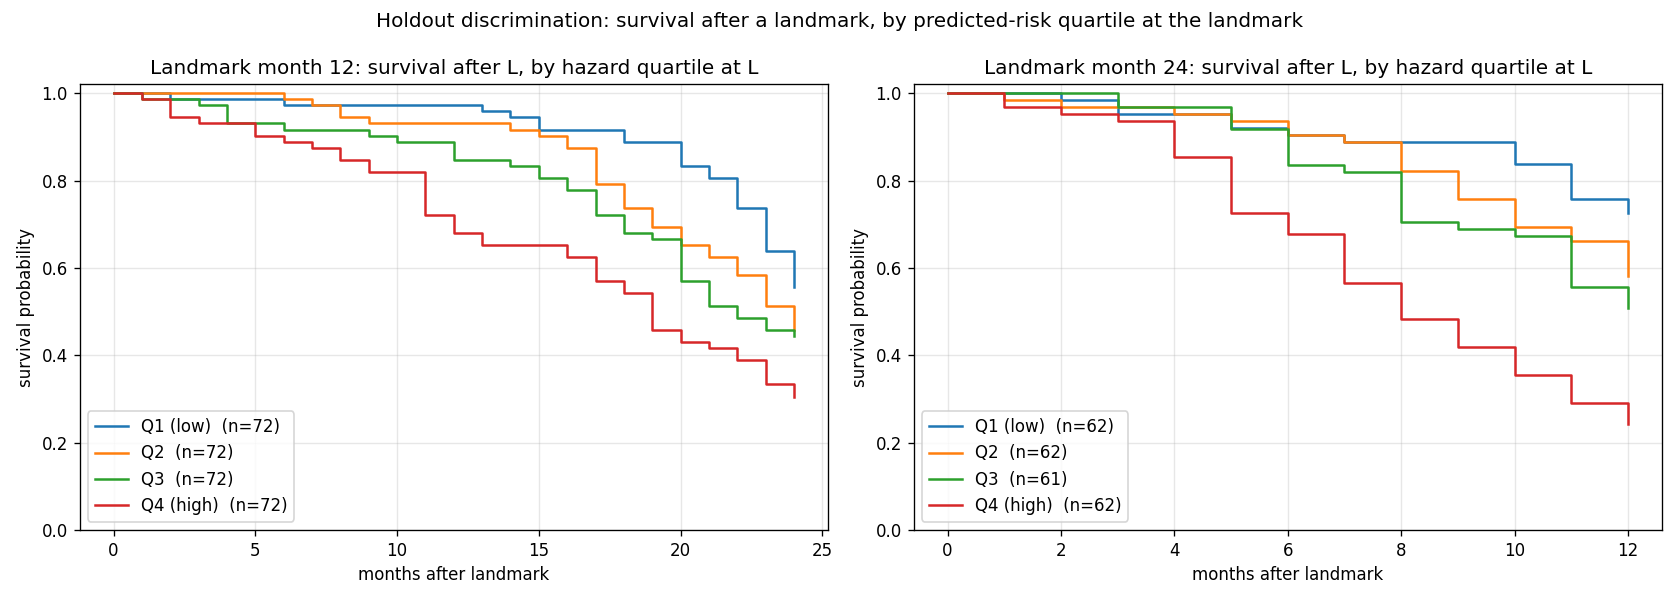
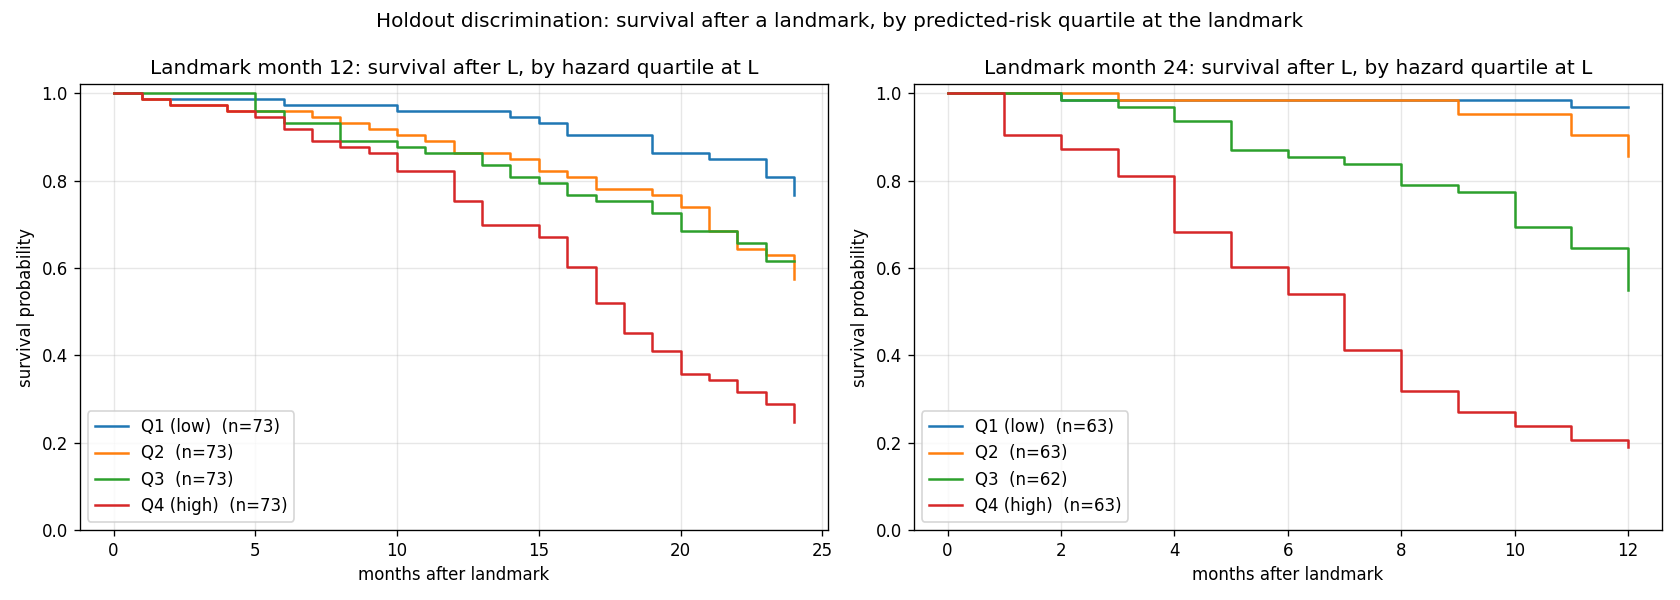
refactor(serving): split lifelines-free serving artefact from training bundle
Persist two artefacts from one fit (train/serve artefact separation):
- cox_model.pkl   full lifelines model object (retraining/inspection)
- cox_serving.pkl plain dicts only (coefficients + norm_mean + train_log_ph),
                  unpickles with zero lifelines dependency

Scoring a tenant is a centered linear predictor, so the serving path needs only
arithmetic. norm_mean is stored because lifelines' predict_log_partial_hazard
returns the CENTERED dot product (x - xbar) . beta; a naive sum(coef*feat) drifts
every score by the constant xbar . beta (verified by check_serving_parity.py).

Also: refresh the fit on current data_train (Jun-5 reseed) so model and live data
are the same generation again (the deployed model was a frozen Jun-4 fit). Demo
numbers shift accordingly (e.g. Margot percentile 0.101 -> 0.324); gate still GO.
Fix stale 8-covariate/4-branch docstring to the live 5-covariate/3-branch ambient
model, and drop dead credit_x_corpfranch (computed, never a covariate).

diff --git a/scripts/fit_cox_model.py b/scripts/fit_cox_model.py
@@ -15,29 +15,34 @@ each month. The counting-process form uses each tenant-month's *backward-
 looking* signal and the event only ever fires on the final interval, so there
 is no look-ahead. See the planning repo's decision log (Day 4).
 
-The covariates span the generator's four causal branches; each is computed as
-a STRICTLY trailing window at every month (no future information):
+The covariates span THREE of the generator's causal branches (revenue,
+operational, leading); each is computed as a STRICTLY trailing window at every
+month (no future information):
 
   Revenue      rts_12mo_mean         trailing-12mo mean rent-to-sales   (+)
                sales_trend_12mo      12-month sales growth              (-)
   Operational  late_pay_count_12mo   late-payment flags, trailing 12mo  (+)
                trading_shortfall_3mo trailing-3mo mean shortfall        (+)
-  Leading      enquiry_recent_6mo    any relief/exit enquiry, last 6mo  (+)
-               stock_depth_3mo       trailing-3mo mean stock depth      (-)
-  External     credit_trend_3mo_mean trailing-3mo mean credit trend     (-)
-               credit_x_corpfranch   credit trend x corp/franchise      (-)
+  Leading      stock_depth_3mo       trailing-3mo mean stock depth      (-)
 
-The model is STRATIFIED by `operator_type` (each type its own baseline hazard)
-and carries the one `operator_type x credit_trend` interaction the spec names
-(encoded as credit_trend x is-corporate-or-franchise, since the generator makes
-credit informative only for those operator types).
+The relief/exit-enquiry and credit signals are deliberately NOT covariates:
+they are discrete, high-impact event signals handled in the agent's ALERT layer
+(see the two-layer note at FEATURES below and decisions.md 2026-06-03). Keeping
+them out also removes a near-label signal, so the model's discrimination is honest.
+
+The model is STRATIFIED by `operator_type` (each type its own baseline hazard).
 
 Usage:
     python scripts/fit_cox_model.py [--seed 42] [--data data] [--holdout 0.2]
 
 Outputs:
-    data/cox_model.pkl              pickled fitted model (gitignored; for the
-                                    cox_ph_predict Cloud Function, Day 5)
+    data/cox_model.pkl              full bundle: fitted model + train log-ph +
+                                    serving coefficients (gitignored; for
+                                    retraining / inspection)
+    data/cox_serving.pkl            lifelines-free SERVING artefact - plain dicts
+                                    (coefficients + centering + train log-ph) for
+                                    the cox_ph_predict Cloud Function. See the
+                                    train/serve separation note at the bundle save.
     docs/cox_validation_km.png      landmark KM-by-risk-quartile plots (evidence)
     docs/cox_validation_report.md   the go/no-go gate report (evidence)
 """
@@ -120,15 +125,13 @@ def build_counting_process(tenants, observations):
         lambda s: s.astype(int).rolling(6, min_periods=1).max())
     odf["stock_depth_3mo"] = grp["stock_depth_index"].transform(
         lambda s: s.rolling(3, min_periods=1).mean())
+    # Ambient credit-trend signal, kept as an alert-layer reference column (see
+    # the note above build_counting_process). NOT a model covariate.
     odf["credit_trend_3mo_mean"] = grp["credit_trend_3mo"].transform(
         lambda s: s.rolling(3, min_periods=1).mean())
     # 12-month sales growth; 0 where <12mo of history (trend not yet knowable).
     odf["sales_trend_12mo"] = grp["sales_total"].transform(
         lambda s: (s / s.shift(12) - 1.0)).fillna(0.0)
-
-    # Interaction: credit only carries signal for corporate/franchise tenants.
-    is_corp_franch = odf["operator_type"].isin(["corporate", "franchise"]).astype(int)
-    odf["credit_x_corpfranch"] = odf["credit_trend_3mo_mean"] * is_corp_franch
 
     # Event fires only on an exiter's final observed interval.
     last_idx = odf.groupby("tenant_id")["month_idx"].transform("max")
@@ -385,15 +388,51 @@ def main(seed=42, data_dir="data", holdout_frac=0.2, penalizer=0.1):
                  gate_landmark=gate_landmark, km_separates=km_separates,
                  overall=overall, movers=movers)
 
-    # Save a model bundle rather than the bare model: the Cloud Function needs
-    # the training population's log partial hazard distribution to compute a
-    # percentile-rank score alongside the sigmoid score (belt-and-braces).
-    # We use each tenant's LAST training observation (current state at exit/censor).
+    # --- Train/serve artefact separation (see decisions.md 2026-06-06) ---
+    # We persist TWO artefacts from one fit:
+    #
+    #   cox_model.pkl    the TRAINING artefact - the full lifelines model object,
+    #                    for retraining, inspection, and validation diagnostics.
+    #                    Unpickling it REQUIRES lifelines installed.
+    #
+    #   cox_serving.pkl  the SERVING artefact - plain Python types only, no
+    #                    lifelines classes, so it unpickles with zero lifelines
+    #                    dependency. Scoring a tenant is just a centered linear
+    #                    predictor, so all the Cloud Function needs is:
+    #                      coefficients  beta per covariate
+    #                      norm_mean     the training mean per covariate; lifelines'
+    #                                    predict_log_partial_hazard returns the
+    #                                    CENTERED dot product (x - xbar) . beta, so
+    #                                    the serving path must subtract xbar too or
+    #                                    every score drifts by a constant.
+    #                      train_log_ph  the training population's log-partial-hazard
+    #                                    distribution, for the percentile-rank score.
+    #
+    # The percentile (belt-and-braces alongside the sigmoid) ranks a tenant against
+    # each TRAINING tenant's LAST observation (current state at exit/censor).
     last_train = train_df.loc[train_df.groupby("tenant_id")["stop"].idxmax()]
     train_log_ph = model.predict_log_partial_hazard(last_train[FEATURE_NAMES]).values
-    bundle = {"model": model, "train_log_ph": train_log_ph}
+
+    coefficients = {f: float(model.params_[f]) for f in FEATURE_NAMES}
+    norm_mean = {f: float(model._norm_mean[f]) for f in FEATURE_NAMES}
+
+    bundle = {
+        "model": model,
+        "train_log_ph": train_log_ph,
+        "coefficients": coefficients,   # also kept here so the full bundle self-describes
+        "norm_mean": norm_mean,
+    }
     with open(data / "cox_model.pkl", "wb") as fh:
         pickle.dump(bundle, fh)
+
+    serving = {
+        "coefficients": coefficients,
+        "norm_mean": norm_mean,
+        "train_log_ph": [float(v) for v in train_log_ph],
+        "feature_names": list(FEATURE_NAMES),
+    }
+    with open(data / "cox_serving.pkl", "wb") as fh:
+        pickle.dump(serving, fh)
 
     # Console gate summary
     print("\n" + "=" * 72)
@@ -413,7 +452,7 @@ def main(seed=42, data_dir="data", holdout_frac=0.2, penalizer=0.1):
         print(f"    @{L}mo c-index = {landmark_c[L]:.3f}")
     print("\n" + ("OVERALL: GO" if overall else "OVERALL: NO-GO (review)"))
     print(f"\nArtifacts: docs/cox_validation_km.png, docs/cox_validation_report.md, "
-          f"{data}/cox_model.pkl")
+          f"{data}/cox_model.pkl (training), {data}/cox_serving.pkl (serving)")
     print("=" * 72)
 
     return overall

diff --git a/docs/cox_validation_report.md b/docs/cox_validation_report.md
@@ -4,8 +4,8 @@
 
 ## Dataset
 
-- Tenants: **1508**  *  exit events: **858**
-- Events per covariate (EPV): **171.6** (858 events / 5 covariates)
+- Tenants: **1508**  *  exit events: **680**
+- Events per covariate (EPV): **136.0** (680 events / 5 covariates)
 
 ## Gate summary (hard criteria)
 
@@ -14,7 +14,7 @@
 | Branch contributes: revenue | yes | PASS |
 | Branch contributes: operational | yes | PASS |
 | Branch contributes: leading | yes | PASS |
-| KM quartiles separate @12mo (log-rank p<0.01) | p=4.3e-05 | PASS |
+| KM quartiles separate @12mo (log-rank p<0.01) | p=2.0e-11 | PASS |
 
 **Overall: GO**
 
@@ -22,8 +22,8 @@
 
 Holdout, time-dependent (landmark) concordance - among tenants still at risk at the landmark month, ranked by hazard *as of* that month:
 
-- **@12 months:** c-index 0.617
-- **@24 months:** c-index 0.671
+- **@12 months:** c-index 0.671
+- **@24 months:** c-index 0.831
 
 *These reflect AMBIENT signals (rent-to-sales, sales trend, payments, trading hours, stock depth) predicting 12-24 months ahead - a deliberately hard, honest task. The round 0.70 figure in the plan was a heuristic for ordinary concordance, not a long-horizon time-dependent c-index, so we gate on genuine discrimination (quartile separation) + structural recovery (branch contribution) and report the c-index transparently. The agent's ALERT layer adds the decisive near-term signal on top of this baseline.*
 
@@ -31,11 +31,11 @@ Holdout, time-dependent (landmark) concordance - among tenants still at risk at 
 
 | covariate | branch | HR | coef | p | expected | actual | sign ok | sig (p<.05) |
 |-----------|--------|----|------|---|----------|--------|---------|-------------|
-| rts_12mo_mean | revenue | 3.359 | +1.212 | 0.0000 | + | + | yes | yes |
-| sales_trend_12mo | revenue | 0.780 | -0.249 | 0.0009 | - | - | yes | yes |
-| late_pay_count_12mo | operational | 1.017 | +0.017 | 0.0021 | + | + | yes | yes |
-| trading_shortfall_3mo | operational | 1.897 | +0.640 | 0.0000 | + | + | yes | yes |
-| stock_depth_3mo | leading | 0.518 | -0.657 | 0.0000 | - | - | yes | yes |
+| rts_12mo_mean | revenue | 5.945 | +1.783 | 0.0000 | + | + | yes | yes |
+| sales_trend_12mo | revenue | 0.720 | -0.329 | 0.0000 | - | - | yes | yes |
+| late_pay_count_12mo | operational | 1.028 | +0.028 | 0.0000 | + | + | yes | yes |
+| trading_shortfall_3mo | operational | 2.562 | +0.941 | 0.0000 | + | + | yes | yes |
+| stock_depth_3mo | leading | 0.348 | -1.057 | 0.0000 | - | - | yes | yes |
 
 ## KM by risk quartile (holdout landmark)
 
@@ -43,18 +43,18 @@ See `cox_validation_km.png`. Quartiles are computed independently at each landma
 
 | tenant | quartile @first | quartile @second |
 |--------|------------------|-------------------|
-| TENANT_009 | Q3 | Q2 |
-| TENANT_018 | Q2 | Q3 |
-| TENANT_020 | Q1 (low) | Q2 |
-| TENANT_050 | Q2 | Q1 (low) |
-| TENANT_066 | Q3 | Q4 (high) |
-| TENANT_080 | Q2 | Q3 |
-| TENANT_083 | Q3 | Q2 |
-| TENANT_088 | Q2 | Q3 |
-| TENANT_097 | Q4 (high) | Q3 |
-| TENANT_1023 | Q3 | Q4 (high) |
-| TENANT_1028 | Q3 | Q2 |
-| TENANT_1035 | Q3 | Q4 (high) |
+| ANCHOR_NORTH | Q1 (low) | Q2 |
+| TENANT_020 | Q3 | Q2 |
+| TENANT_023 | Q2 | Q1 (low) |
+| TENANT_027 | Q1 (low) | Q2 |
+| TENANT_033 | Q4 (high) | Q3 |
+| TENANT_040 | Q3 | Q4 (high) |
+| TENANT_044 | Q4 (high) | Q3 |
+| TENANT_045 | Q2 | Q3 |
+| TENANT_064 | Q3 | Q2 |
+| TENANT_079 | Q3 | Q4 (high) |
+| TENANT_1007 | Q2 | Q1 (low) |
+| TENANT_1011 | Q3 | Q2 |
 
 ## Two-layer design note
 